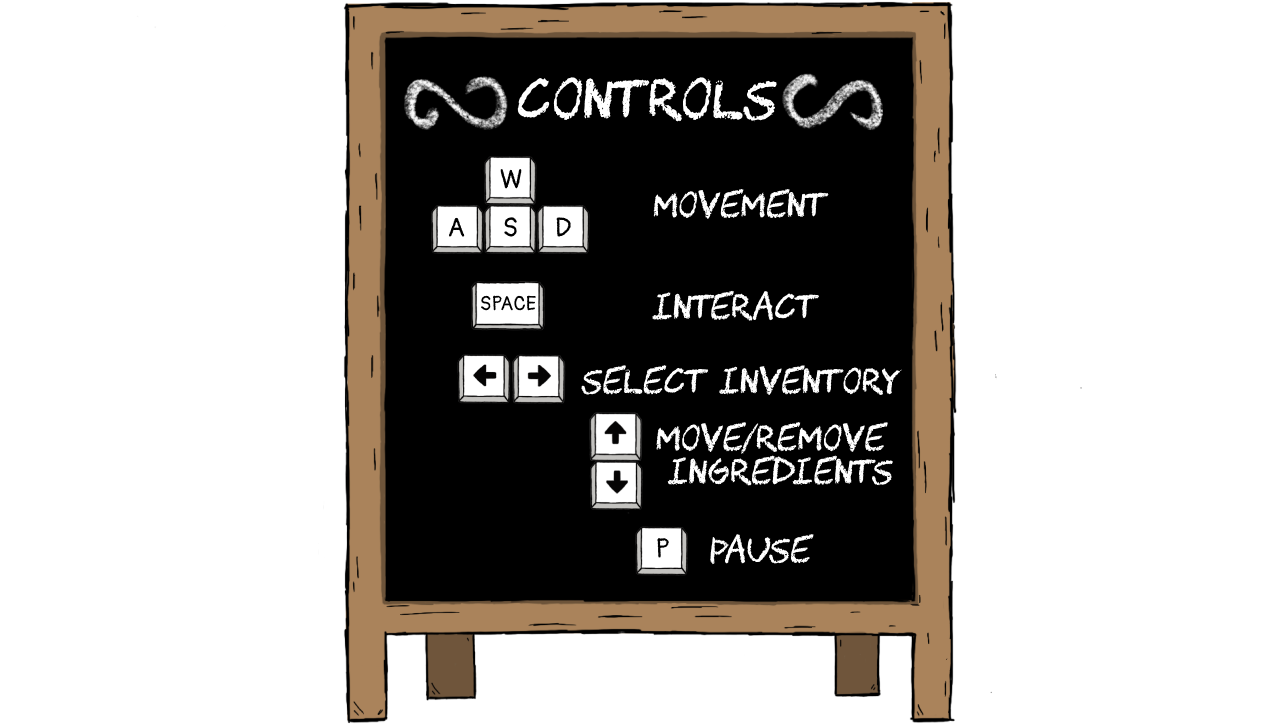
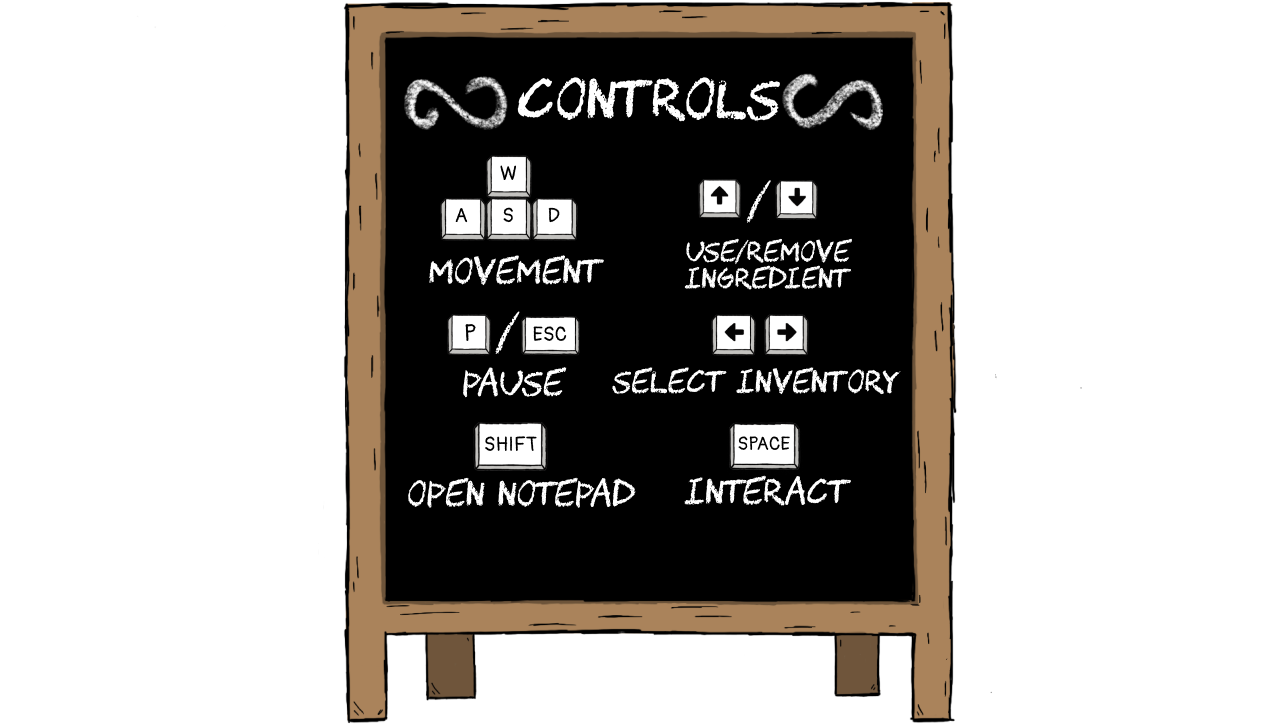
a huge wave of update is coming

diff --git a/core/src/com/raccoon/mygame/game/GDXRoot.java b/core/src/com/raccoon/mygame/game/GDXRoot.java
@@ -194,7 +194,7 @@ public class GDXRoot extends Game implements ScreenListener {
 //        sounds.storeStop();
 //        sounds.cafeStop();
         store.isEndless = loader.getLevels().get(levelToGoTo).isEndless();
-        System.out.println("restarted");
+        //System.out.println("restarted");
         sounds.potStop();
         sounds.panStopp();
         sounds.potplaying = false;
@@ -437,7 +437,7 @@ public class GDXRoot extends Game implements ScreenListener {
             levelselect.resetLevelSelectors();
             result.update();
             if (result.retry){
-                System.out.println("clicked retry");
+                //System.out.println("clicked retry");
                 sounds.cafeeactualstop();
                 sounds.storeStop();
                 restart();
@@ -461,7 +461,7 @@ public class GDXRoot extends Game implements ScreenListener {
             return;
         }
         //System.out.println(isPaused);
-      else if(input.getPause() && (current == 0||current == 1)){
+      else if(input.getPause() && !isPaused && (current == 0||current == 1)){
           isPaused = true;
           w.pauseTimer();
           sounds.storeStop();
@@ -473,40 +473,56 @@ public class GDXRoot extends Game implements ScreenListener {
       }
 
       else if(isPaused){
-          pause.update();
-          if(pause.resume){
+          if(input.getPause() && (current == 0||current == 1)){
               isPaused = false;
               pause.resumed();
-              if(sounds.potplaying){
+              if (sounds.potplaying) {
                   sounds.potPlay();
               }
-              if(sounds.panplaying){
+              if (sounds.panplaying) {
                   sounds.panPlay();
               }
               pause.on_pause = false;
-              if(current == 1){
+              if (current == 1) {
                   sounds.storePlay();
               }
               sounds.cafePlay();
+          }else {
+              pause.update();
+              if (pause.resume) {
+                  isPaused = false;
+                  pause.resumed();
+                  if (sounds.potplaying) {
+                      sounds.potPlay();
+                  }
+                  if (sounds.panplaying) {
+                      sounds.panPlay();
+                  }
+                  pause.on_pause = false;
+                  if (current == 1) {
+                      sounds.storePlay();
+                  }
+                  sounds.cafePlay();
+              }
+              if (pause.quit) {
+                  pause.quit = false;
+                  levelselect.resetLevelSelectors();
+                  levelselect.setSaveController(saveController);
+                  levelselect.generateLevelSelectors(loader.getLevels().size);
+                  current = -1;
+              }
+              if (pause.restart) {
+                  sounds.storeStop();
+                  sounds.cafeeactualstop();
+                  notepadOrders = new Array<>();
+                  pause.on_pause = false;
+                  restart();
+                  pause.restart = false;
+              }
+              if (pause.options) {
+              }
           }
-          if(pause.quit){
-              pause.quit = false;
-              levelselect.resetLevelSelectors();
-              levelselect.setSaveController(saveController);
-              levelselect.generateLevelSelectors(loader.getLevels().size);
-              current = -1;
-          }
-          if(pause.restart){
-              sounds.storeStop();
-              sounds.cafeeactualstop();
-              notepadOrders = new Array<>();
-              pause.on_pause = false;
-              restart();
-              pause.restart = false;
-          }
-          if(pause.options){
 
-          }
       }
       else if (!isPaused) {
           if (w.timerPaused) {

diff --git a/core/src/com/raccoon/mygame/controllers/MenuController.java b/core/src/com/raccoon/mygame/controllers/MenuController.java
@@ -94,8 +94,8 @@ public class MenuController extends WorldController{
         this.pause_background = background;
         this.canvas = canvas;
         this.input = input;
-        System.out.println(s.getmusic());
-        System.out.println(s.getsfx());
+        //System.out.println(s.getmusic());
+        //System.out.println(s.getsfx());
 //        musicbar = (int)(s.getmusic() * 5);
 //        sfxbar = (int)(s.getsfx() * 5);
 
@@ -233,7 +233,7 @@ public class MenuController extends WorldController{
             back_.setTexture(back_button_hover);
         },back_::resetStyleProperties,opt_buttons);
 
-        UIButton back2 = new UIButton(back,"restart",520,125,canvas);
+        UIButton back2 = new UIButton(back,"restart",530,135,canvas);
         addButton(back2, ()-> {
             sounds.clickPlay();
             this.cont_back = true;
@@ -245,7 +245,7 @@ public class MenuController extends WorldController{
             back2.setTexture(back_button_hover);
         },back2::resetStyleProperties,cont_buttons);
 
-        UIButton back3 = new UIButton(back,"restart",520,200,canvas);
+        UIButton back3 = new UIButton(back,"restart",535,150,canvas);
         addButton(back3, ()-> {
             sounds.clickPlay();
             this.aud_back = true;
@@ -301,7 +301,6 @@ public class MenuController extends WorldController{
             canvas.draw(cont_background, Color.WHITE, 0, 0,
                     0, 0, 0.0f, 1f, 1f);
             for(UIButton button : cont_buttons) {
-                System.out.println("on control");
                 button.draw(canvas);
             }
         } else if (on_audio){

diff --git a/core/src/com/raccoon/mygame/controllers/RestaurantController.java b/core/src/com/raccoon/mygame/controllers/RestaurantController.java
@@ -478,7 +478,7 @@ public class RestaurantController extends WorldController implements ContactList
             customerOrders.add(new Array<>(new String[]{"448", "1", "red", "yellow", "orange"}));
 
             for(Array<String> arr : customerOrders){
-                System.out.println(arr);
+                //System.out.println(arr);
                 int time = Integer.parseInt(arr.get(0));
                 arr.removeIndex(0);
                 Customer customer1 = new Customer(0f, 7.5f, 1f, 0.7f, goatIdle, world, canvas, 1, time,arr,directory);
@@ -524,12 +524,12 @@ public class RestaurantController extends WorldController implements ContactList
         player.current = this.current;
 
         if(isEndless){
-            System.out.println(infTimer);
-            System.out.println(customersToAdd.size);
+            //System.out.println(infTimer);
+            //System.out.println(customersToAdd.size);
             for(Customer c: customersToAdd){
 //            System.out.println(c.showUpTime);
                 if(c.showUpTime <= infTimer && paused == false){
-                    System.out.println("c.showUpTime" + c.showUpTime + "infTimer" + infTimer);
+                    //System.out.println("c.showUpTime" + c.showUpTime + "infTimer" + infTimer);
                     customers.add(c);
                     sounds.doorPlay();
                     drawableObjects.add(c);

diff --git a/core/src/com/raccoon/mygame/controllers/StoreController.java b/core/src/com/raccoon/mygame/controllers/StoreController.java
@@ -244,7 +244,7 @@ public class StoreController extends WorldController implements ContactListener 
         guards = level.getGuards();
 //        guards = new Array<Guard>(1);
 //        guards.add(new Guard(20f, 10, 1.67f, 0.83f, guardIdle, world, canvas, PatrolDirection.ROTATE_CCW,collisionLayer,new Array<>(), GuardAIController.GuardOrientation.LEFT));
-        System.out.println("Size: " + level.getIngredients().size);
+        //System.out.println("Size: " + level.getIngredients().size);
         ingredients = level.getIngredients();
 //        for(Ingredient i: ingredients){
 //            ingredientTextures.put(i.type, new Texture("720/" + i.type + ".png"));
@@ -751,8 +751,8 @@ public class StoreController extends WorldController implements ContactListener 
         try{
             return ingredientTextures.get(id);
         } catch(Exception e){
-            System.out.println("This texture does not exist yet");
-            System.out.println(e);
+            //System.out.println("This texture does not exist yet");
+            //System.out.println(e);
         }
         return apple;
     }

diff --git a/core/src/com/raccoon/mygame/controllers/SoundController.java b/core/src/com/raccoon/mygame/controllers/SoundController.java
@@ -170,7 +170,7 @@ public class SoundController {
         } else {
             musicVol = 1.6f;
         }
-        System.out.println("music volume: " + musicVol);
+        //System.out.println("music volume: " + musicVol);
     }
     public void decmusic(){
         if(musicVol > 0.0f){
@@ -182,7 +182,7 @@ public class SoundController {
         } else {
             musicVol = 0.0f;
         }
-        System.out.println("music volume: " + musicVol);
+        //System.out.println("music volume: " + musicVol);
     }
 
     public void incsfx(){
@@ -191,7 +191,7 @@ public class SoundController {
         } else {
             sfxvol = 1.6f;
         }
-        System.out.println("sfx volume: " + sfxvol);
+        //System.out.println("sfx volume: " + sfxvol);
     }
 
     public void decsfx(){
@@ -204,7 +204,7 @@ public class SoundController {
         } else {
             sfxvol = 0.0f;
         }
-        System.out.println("sfx volume: " + sfxvol);
+        //System.out.println("sfx volume: " + sfxvol);
     }
     public void cafeeactualstop(){
         cafeSong.stop();

diff --git a/core/src/com/raccoon/mygame/controllers/MainMenuController.java b/core/src/com/raccoon/mygame/controllers/MainMenuController.java
@@ -318,7 +318,7 @@ public class MainMenuController extends WorldController{
             back1.resetStyleProperties();
         },setting_buttons);
 
-        UIButton back2 = new UIButton(back,"exit",150,150,canvas);
+        UIButton back2 = new UIButton(back,"exit",320,123,canvas);
         final boolean [] soundPlayed7 = {false};
         addButton(back2, ()-> {
             sounds.clickPlay();
@@ -454,7 +454,7 @@ public class MainMenuController extends WorldController{
         } else if (on_audio){
 
         musicbars = (int)(sounds.getmusic() * 5);
-        System.out.println("music: " + sounds.getmusic());
+        //System.out.println("music: " + sounds.getmusic());
         sfxbars = (int)(sounds.getsfx() * 5);
 //            System.out.println("on audio");
             checkButtons(audio_buttons);

diff --git a/core/src/com/raccoon/mygame/controllers/CustomerAIController.java b/core/src/com/raccoon/mygame/controllers/CustomerAIController.java
@@ -55,7 +55,7 @@ public class CustomerAIController implements AIController {
         this.shadow = shadow;
         this.directory = directory;
         r = new Random();
-        System.out.println("customer created");
+        //System.out.println("customer created");
     }
 
 
@@ -153,7 +153,7 @@ public class CustomerAIController implements AIController {
                         customer.seatIndex = 1;
                         break;
                     } else if (!t.isOccupied(0)) {
-                        System.out.println(idx);
+                        //System.out.println(idx);
                         goal = t.occupy(0);
                         customer.table = t;
                         customer.seatIndex = 0;

diff --git a/core/src/com/raccoon/mygame/models/Guard.java b/core/src/com/raccoon/mygame/models/Guard.java
@@ -224,7 +224,7 @@ public class Guard extends WheelObstacle {
             aiController.setAIStateWake();
         }
         else if(aiController.patrolDirection ==  PatrolDirection.ROTATE_CCW || aiController.patrolDirection ==  PatrolDirection.ROTATE_CW){
-            System.out.println(this.aiController.getCurrentState());
+            //System.out.println(this.aiController.getCurrentState());
             aiController.setAIStateRotate();
             aiController.resetRotateTimer();
         }

diff --git a/core/src/com/raccoon/mygame/controllers/SplashScreenController.java b/core/src/com/raccoon/mygame/controllers/SplashScreenController.java
@@ -29,7 +29,7 @@ public class SplashScreenController extends WorldController{
         videoPlayer.setOnCompletionListener(new VideoPlayer.CompletionListener() {
             @Override
             public void onCompletionListener(FileHandle file) {
-                System.out.println("Video done playing!");
+                //System.out.println("Video done playing!");
                 videoDonePlaying = true;
             }
         });

diff --git a/core/src/com/raccoon/mygame/game/LoadingMode.java b/core/src/com/raccoon/mygame/game/LoadingMode.java
@@ -266,7 +266,7 @@ public class LoadingMode implements Screen, InputProcessor, ControllerListener {
      * prefer this in lecture.
      */
     private void draw() {
-        System.out.println("hi!");
+        //System.out.println("hi!");
         canvas.begin();
         canvas.draw(background, 0, 0);
         if (playButton == null) {

diff --git a/core/src/com/raccoon/mygame/controllers/CollisionController.java b/core/src/com/raccoon/mygame/controllers/CollisionController.java
@@ -435,7 +435,7 @@ public class CollisionController {
     }
 
     private void addOrder(Customer order) {
-        System.out.println("Adding order" + order);
+        //System.out.println("Adding order" + order);
         if (takenOrders.size >= 3) {
             takenOrders.removeIndex(0);
         }

diff --git a/core/src/com/raccoon/mygame/models/Customer.java b/core/src/com/raccoon/mygame/models/Customer.java
@@ -233,7 +233,7 @@ public class Customer extends BoxObstacle {
             }
         }
 
-        System.out.println(order);
+        //System.out.println(order);
 
         this.showUpTime = showUpTime;
 
